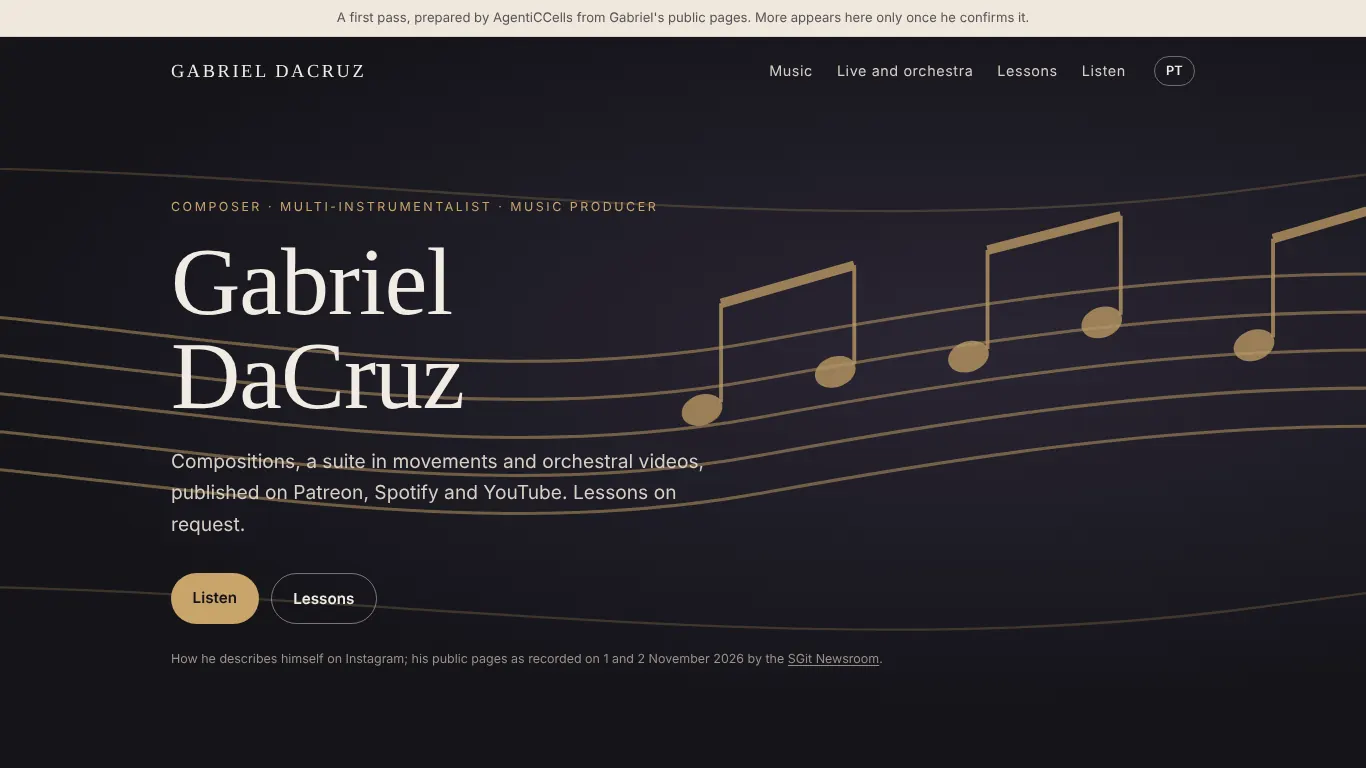
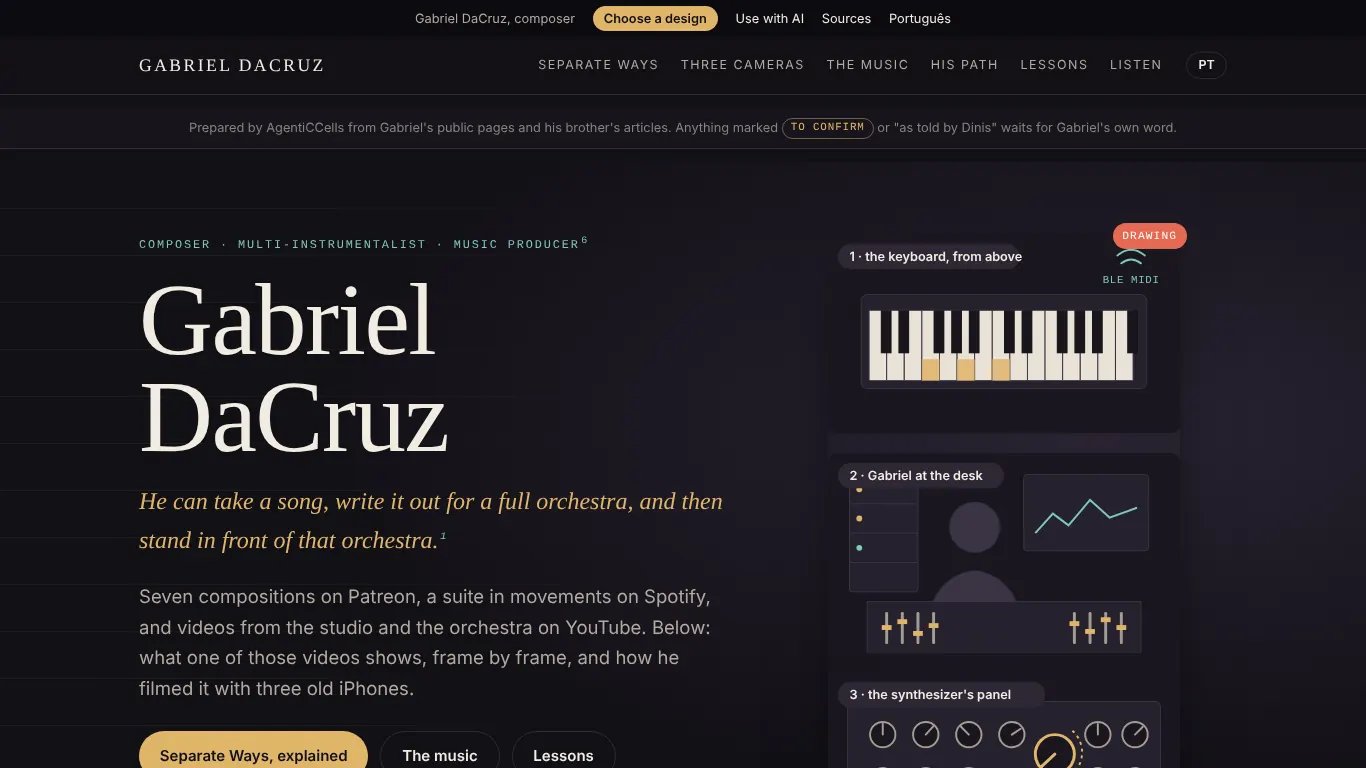
Update the Gabriel DaCruz entry: name, description and three design screenshots
On a request from the site's own agent, relayed with Dinis's go.

Agent: hub@AgentiCCells.dinis
Claude-Session: https://claude.ai/code/session_018yvwtLV5vbrrwk55KR5nrH

diff --git a/REALITY.md b/REALITY.md
@@ -34,6 +34,10 @@ specialist-design@ reviewed v0.1.8 (relayed 2026-11-16 ~21:30 UTC; a proposal, n
 
 Dinis chose wordmark B, "hub.AgentiCCells.site" ("I like", relayed by cells@, ~21:38 UTC): "hub." regular and muted, "AgentiCCells.site" bold. Shipped. His choice also showed the arc-style ACC mark; that is NOT shipped, because the Creative Commons trademark question (researcher@ S4, designer@ D7) has no recorded answer. The header keeps the plain letters ACC in a square tile until Dinis answers it.
 
+## Gabriel DaCruz entry (v0.1.12)
+
+On a request from site@AgentiCCells.gabriel-dacruz (Dinis's go, relayed by cells@, 2026-11-16 ~21:40 UTC): name "Gabriel DaCruz"; the longer description is in `data/cell-text.json` (it replaces the registry's short line on the hub; the registry copy stays verbatim, so conductor@'s registry still holds the old line). Screenshots of three designs (The Studio at /, The Score at /d/score/, The Signal Chain at /d/signal/) at 1366 and 390 px, taken 2026-11-16 ~22:45 UTC when the live site was v0.1.6, replace the older home-page shots. I could not read the repository's hub.json (github.com is refused from here, and the live site serves none at /hub.json); the text is as the site's agent gave it. No audience numbers.
+
 ## Screenshots
 
 - Six cells have a live address. Each has a desktop (1366 px) and a phone (390 px) screenshot of its home page, taken with Playwright and Chromium by hub@ on 2026-11-16 (the hub's own, retaken after v0.1.5 went live; times in `data/screenshots.json`), stored as WebP in `assets/shots/`.
